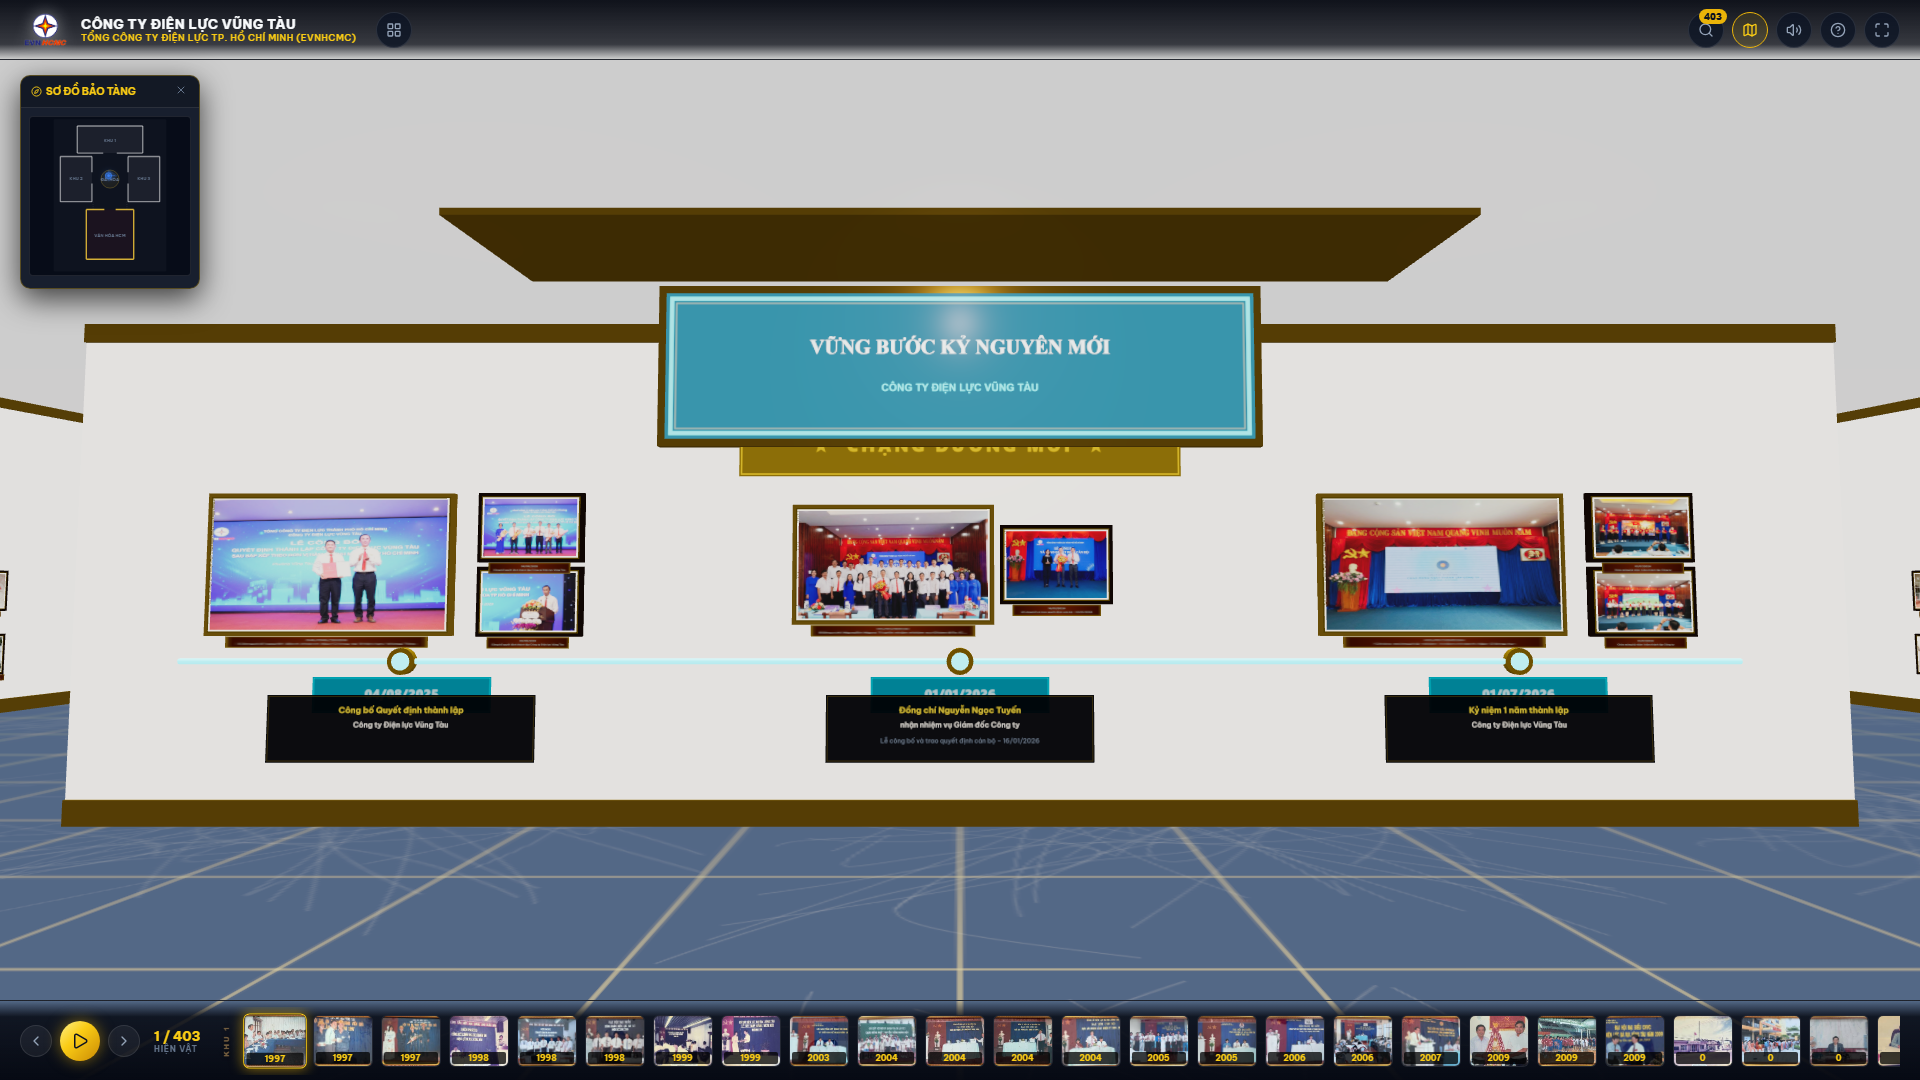
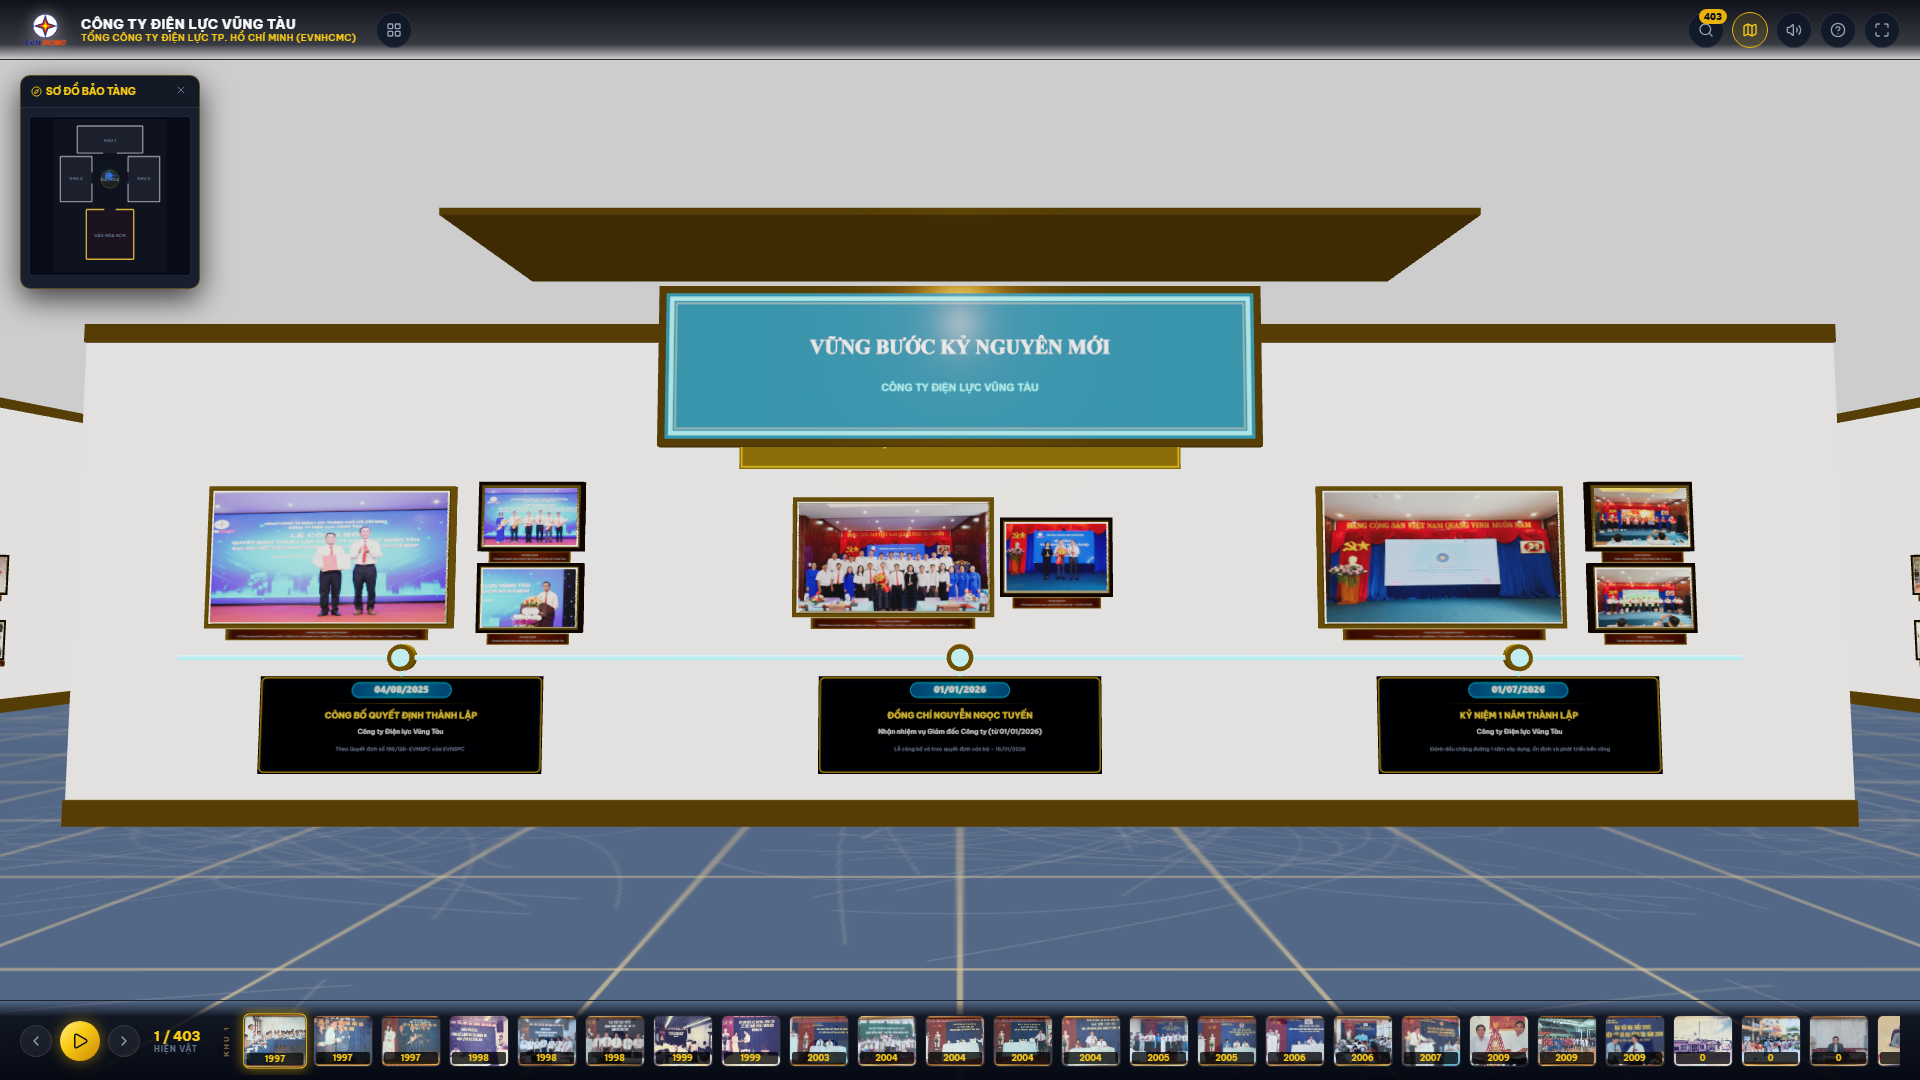
GĐ3-fix3: nâng cao ảnh tường ngoài, tích hợp bảng mốc son không chồng lấn

diff --git a/js/milestone-wall.js b/js/milestone-wall.js
@@ -48,15 +48,15 @@ export class MilestoneWallBuilder {
     const xWest = 35.0 - 0.3 - 0.05; // 34.65
     const rotYWest = -Math.PI / 2;
 
-    // 1.1 Dòng đầu "CHẶNG ĐƯỜNG MỚI" ở y = 5.1
-    this.addHeaderBanner(westGroup, xWest, 5.1, 0, rotYWest, 'CHẶNG ĐƯỜNG MỚI');
+    // 1.1 Dòng đầu "CHẶNG ĐƯỜNG MỚI" ở y = 5.2
+    this.addHeaderBanner(westGroup, xWest, 5.2, 0, rotYWest, 'CHẶNG ĐƯỜNG MỚI');
 
-    // 1.2 Đường LED dòng thời gian ở y = 2.2, chạy từ z = -10.5 đến +10.5
+    // 1.2 Đường LED dòng thời gian ở y = 2.25, chạy từ z = -10.5 đến +10.5
     const ledLength = 21.0;
-    const ledGeo = new THREE.CylinderGeometry(0.04, 0.04, ledLength, 16);
+    const ledGeo = new THREE.CylinderGeometry(0.035, 0.035, ledLength, 16);
     const ledMesh = new THREE.Mesh(ledGeo, this.matCyanLED);
     ledMesh.rotation.x = Math.PI / 2;
-    ledMesh.position.set(xWest, 2.2, 0);
+    ledMesh.position.set(xWest, 2.25, 0);
     westGroup.add(ledMesh);
 
     // 3 Mốc son chi tiết
@@ -65,8 +65,9 @@ export class MilestoneWallBuilder {
         index: 1,
         z: -7.5,
         date: '04/08/2025',
-        title: 'Công bố Quyết định thành lập',
+        title: 'CÔNG BỐ QUYẾT ĐỊNH THÀNH LẬP',
         subtitle: 'Công ty Điện lực Vũng Tàu',
+        descExtra: 'Theo Quyết định số 186/QĐ-EVNSPC của EVNSPC',
         mainId: 'pcvt_003_2025-08-04',
         smallIds: ['pcvt_004_2025-08-04', 'pcvt_005_2025-08-04'],
         mainSize: { w: 3.2, h: 1.8 },
@@ -77,8 +78,8 @@ export class MilestoneWallBuilder {
         index: 2,
         z: 0.0,
         date: '01/01/2026',
-        title: 'Đồng chí Nguyễn Ngọc Tuyến',
-        subtitle: 'nhận nhiệm vụ Giám đốc Công ty',
+        title: 'ĐỒNG CHÍ NGUYỄN NGỌC TUYẾN',
+        subtitle: 'Nhận nhiệm vụ Giám đốc Công ty (từ 01/01/2026)',
         descExtra: 'Lễ công bố và trao quyết định cán bộ – 16/01/2026',
         mainId: 'moc2_01',
         smallIds: ['moc2_02'],
@@ -90,8 +91,9 @@ export class MilestoneWallBuilder {
         index: 3,
         z: 7.5,
         date: '01/07/2026',
-        title: 'Kỷ niệm 1 năm thành lập',
+        title: 'KỶ NIỆM 1 NĂM THÀNH LẬP',
         subtitle: 'Công ty Điện lực Vũng Tàu',
+        descExtra: 'Đánh dấu chặng đường 1 năm xây dựng, ổn định và phát triển bền vững',
         mainId: 'pcvt_069_2026-07-01',
         smallIds: ['pcvt_070_2026-07-01', 'pcvt_071_2026-07-01'],
         mainSize: { w: 3.2, h: 1.8 },
@@ -101,19 +103,19 @@ export class MilestoneWallBuilder {
     ];
 
     milestones.forEach(m => {
-      // Node LED trên đường timeline
+      // Node LED trên đường timeline (y = 2.25)
       const nodeGeo = new THREE.CylinderGeometry(0.18, 0.18, 0.08, 24);
       const nodeMesh = new THREE.Mesh(nodeGeo, this.matGold);
       nodeMesh.rotation.z = Math.PI / 2;
-      nodeMesh.position.set(xWest - 0.01, 2.2, m.z);
+      nodeMesh.position.set(xWest - 0.01, 2.25, m.z);
       westGroup.add(nodeMesh);
 
       const nodeCore = new THREE.Mesh(new THREE.CylinderGeometry(0.12, 0.12, 0.09, 24), this.matCyanLED);
       nodeCore.rotation.z = Math.PI / 2;
-      nodeCore.position.set(xWest - 0.015, 2.2, m.z);
+      nodeCore.position.set(xWest - 0.015, 2.25, m.z);
       westGroup.add(nodeCore);
 
-      // Ảnh chính tại y = 3.5
+      // Ảnh chính tại y = 3.60
       const mainItem = itemsById.get(m.mainId) || {
         id: m.mainId,
         source: 'pcvt',
@@ -129,14 +131,14 @@ export class MilestoneWallBuilder {
         { w: m.mainSize.w, h: m.mainSize.h, frameType: 'gold_honor' },
         rotYWest
       );
-      mainExhibit.position.set(xWest, 3.5, m.z + m.mainOffsetZ);
+      mainExhibit.position.set(xWest, 3.60, m.z + m.mainOffsetZ);
       westGroup.add(mainExhibit);
       if (onExhibitDone) onExhibitDone();
 
       // Các ảnh nhỏ xếp bên cạnh
       if (m.smallIds && m.smallIds.length > 0) {
         if (m.smallIds.length === 1) {
-          // 1 ảnh nhỏ (Mốc 2)
+          // 1 ảnh nhỏ (Mốc 2) tại y = 3.60
           const smItem = itemsById.get(m.smallIds[0]) || {
             id: m.smallIds[0],
             source: 'pcvt',
@@ -151,12 +153,12 @@ export class MilestoneWallBuilder {
             { w: 1.4, h: 0.95, frameType: 'cert' },
             rotYWest
           );
-          smExhibit.position.set(xWest, 3.5, m.z + m.smallOffsetZ);
+          smExhibit.position.set(xWest, 3.60, m.z + m.smallOffsetZ);
           westGroup.add(smExhibit);
           if (onExhibitDone) onExhibitDone();
         } else {
-          // 2 ảnh nhỏ xếp chồng (y = 4.0 và y = 3.0)
-          const yOffsets = [4.0, 3.0];
+          // 2 ảnh nhỏ xếp chồng tại y = 4.15 và y = 3.05
+          const yOffsets = [4.15, 3.05];
           m.smallIds.forEach((smId, idx) => {
             const smItem = itemsById.get(smId) || {
               id: smId,
@@ -179,11 +181,9 @@ export class MilestoneWallBuilder {
         }
       }
 
-      // Ngày tháng lớn (font weight 900) ở y = 1.75
-      this.addDateText(westGroup, xWest, 1.75, m.z, rotYWest, m.date);
-
-      // Mô tả ở y = 1.30
-      this.addDescText(westGroup, xWest, 1.30, m.z, rotYWest, m.title, m.subtitle, m.descExtra);
+      // Bảng thông tin mốc son tích hợp (y = 1.35, cao 1.30m: từ 0.70m đến 2.00m)
+      // Không còn z-fighting, không chồng chéo, ngày tháng nổi bật ở đỉnh card
+      this.addMilestoneCard(westGroup, xWest, 1.35, m.z, rotYWest, m);
     });
 
     group.add(westGroup);
@@ -272,72 +272,96 @@ export class MilestoneWallBuilder {
     parent.add(mesh);
   }
 
-  addDateText(parent, x, y, z, rotY, dateStr) {
+  addMilestoneCard(parent, x, y, z, rotY, m) {
     const canvas = document.createElement('canvas');
-    canvas.width = 640;
-    canvas.height = 128;
+    canvas.width = 1200;
+    canvas.height = 420;
     const ctx = canvas.getContext('2d');
 
-    ctx.fillStyle = '#0a1020';
-    ctx.fillRect(0, 0, 640, 128);
+    // 1. Nền card bo góc sang trọng
+    ctx.fillStyle = '#080d1a';
+    ctx.beginPath();
+    ctx.roundRect(8, 8, 1184, 404, 16);
+    ctx.fill();
+
+    // Viền vàng kim loại sang trọng
+    ctx.strokeStyle = 'rgba(250, 204, 21, 0.75)';
+    ctx.lineWidth = 3.5;
+    ctx.stroke();
+
+    // Viền trong cyan neon nhẹ
+    ctx.strokeStyle = 'rgba(34, 211, 238, 0.25)';
+    ctx.lineWidth = 1.5;
+    ctx.beginPath();
+    ctx.roundRect(18, 18, 1164, 384, 12);
+    ctx.stroke();
+
+    // 2. Badge ngày tháng nổi bật ở đỉnh card
+    const badgeW = 420;
+    const badgeH = 64;
+    const badgeX = (1200 - badgeW) / 2;
+    const badgeY = 28;
+
+    const grad = ctx.createLinearGradient(badgeX, badgeY, badgeX + badgeW, badgeY + badgeH);
+    grad.addColorStop(0, '#0369a1');
+    grad.addColorStop(0.5, '#0891b2');
+    grad.addColorStop(1, '#0369a1');
+
+    ctx.fillStyle = grad;
+    ctx.beginPath();
+    ctx.roundRect(badgeX, badgeY, badgeW, badgeH, 32);
+    ctx.fill();
 
     ctx.strokeStyle = '#22d3ee';
-    ctx.lineWidth = 4;
-    ctx.strokeRect(4, 4, 632, 120);
+    ctx.lineWidth = 3;
+    ctx.stroke();
 
+    // Chữ ngày tháng nổi bật (font 900, glow cyan)
     ctx.fillStyle = '#ffffff';
-    ctx.font = `900 46px ${FONT_FAMILY}`;
+    ctx.font = `900 40px ${FONT_FAMILY}`;
     ctx.textAlign = 'center';
     ctx.textBaseline = 'middle';
     ctx.shadowColor = '#22d3ee';
-    ctx.shadowBlur = 8;
-    ctx.fillText(dateStr, 320, 64);
+    ctx.shadowBlur = 10;
+    ctx.fillText(m.date, 600, badgeY + badgeH / 2);
+    ctx.shadowBlur = 0; // reset shadow
 
-    const tex = new THREE.CanvasTexture(canvas);
-    tex.colorSpace = THREE.SRGBColorSpace;
-    const mat = new THREE.MeshStandardMaterial({
-      map: tex,
-      metalness: 0.7,
-      roughness: 0.25,
-      emissive: new THREE.Color(0x22d3ee),
-      emissiveIntensity: 0.25
-    });
+    // 3. Đường kẻ trang trí ngăn cách
+    const divGrad = ctx.createLinearGradient(200, 118, 1000, 118);
+    divGrad.addColorStop(0, 'rgba(250, 204, 21, 0)');
+    divGrad.addColorStop(0.5, 'rgba(250, 204, 21, 0.6)');
+    divGrad.addColorStop(1, 'rgba(250, 204, 21, 0)');
+    ctx.strokeStyle = divGrad;
+    ctx.lineWidth = 2;
+    ctx.beginPath();
+    ctx.moveTo(200, 118);
+    ctx.lineTo(1000, 118);
+    ctx.stroke();
 
-    const mesh = new THREE.Mesh(new THREE.PlaneGeometry(2.4, 0.48), mat);
-    mesh.position.set(x, y, z);
-    mesh.rotation.y = rotY;
-    parent.add(mesh);
-  }
-
-  addDescText(parent, x, y, z, rotY, title, subtitle, extra) {
-    const canvas = document.createElement('canvas');
-    canvas.width = 1024;
-    canvas.height = 256;
-    const ctx = canvas.getContext('2d');
-
-    ctx.fillStyle = 'rgba(10, 16, 32, 0.95)';
-    ctx.fillRect(0, 0, 1024, 256);
-
-    ctx.strokeStyle = 'rgba(250, 204, 21, 0.4)';
-    ctx.lineWidth = 3;
-    ctx.strokeRect(6, 6, 1012, 244);
-
+    // 4. Tiêu đề chính (Màu vàng kim sang trọng, font 800 36px)
     ctx.fillStyle = '#fde047';
-    ctx.font = `700 32px ${FONT_FAMILY}`;
+    ctx.font = `800 36px ${FONT_FAMILY}`;
     ctx.textAlign = 'center';
     ctx.textBaseline = 'middle';
-    ctx.fillText(title, 512, 60);
+    ctx.shadowColor = 'rgba(0, 0, 0, 0.9)';
+    ctx.shadowOffsetY = 2;
+    ctx.shadowBlur = 4;
+    ctx.fillText(m.title, 600, 172);
+    ctx.shadowOffsetY = 0;
+    ctx.shadowBlur = 0;
 
-    if (subtitle) {
-      ctx.fillStyle = '#ffffff';
+    // 5. Phụ đề (Màu trắng sáng, font 600 28px)
+    if (m.subtitle) {
+      ctx.fillStyle = '#f8fafc';
       ctx.font = `600 28px ${FONT_FAMILY}`;
-      ctx.fillText(subtitle, 512, 115);
+      ctx.fillText(m.subtitle, 600, 240);
     }
 
-    if (extra) {
+    // 6. Ghi chú sự kiện / chi tiết (Màu bạc sáng, font 500 22px)
+    if (m.descExtra) {
       ctx.fillStyle = '#94a3b8';
-      ctx.font = `500 24px ${FONT_FAMILY}`;
-      ctx.fillText(extra, 512, 175);
+      ctx.font = `500 22px ${FONT_FAMILY}`;
+      ctx.fillText(m.descExtra, 600, 315);
     }
 
     const tex = new THREE.CanvasTexture(canvas);
@@ -345,13 +369,24 @@ export class MilestoneWallBuilder {
     const mat = new THREE.MeshStandardMaterial({
       map: tex,
       metalness: 0.5,
-      roughness: 0.4,
-      transparent: true
+      roughness: 0.35
     });
 
-    const mesh = new THREE.Mesh(new THREE.PlaneGeometry(3.6, 0.9), mat);
+    // Kích thước card trong 3D: rộng 3.8m, cao 1.30m
+    const mesh = new THREE.Mesh(new THREE.PlaneGeometry(3.8, 1.30), mat);
     mesh.position.set(x, y, z);
     mesh.rotation.y = rotY;
     parent.add(mesh);
+
+    // Thanh liên kết đứng từ Node LED (y=2.25) xuống đỉnh Card (y + 1.30/2 = y + 0.65)
+    const cardTopY = y + 1.30 / 2;
+    const nodeY = 2.25;
+    const pinH = nodeY - cardTopY;
+    if (pinH > 0.05) {
+      const pinGeo = new THREE.CylinderGeometry(0.02, 0.02, pinH, 16);
+      const pinMesh = new THREE.Mesh(pinGeo, this.matCyanLED);
+      pinMesh.position.set(x - 0.01, cardTopY + pinH / 2, z);
+      parent.add(pinMesh);
+    }
   }
 }

diff --git a/js/exhibit-builder.js b/js/exhibit-builder.js
@@ -22,8 +22,12 @@ export class ExhibitBuilder {
     this.mountedExhibits = [];
 
     // GĐ3-fix2 thông số tầng ảnh
+    // Vách ngăn đơn giữa khu (partition_k1): 3.10 / 1.50
     this.ROW_Y_TOP = 3.10;
     this.ROW_Y_BOTTOM = 1.50;
+    // Các bức tường xung quanh bảo tàng nâng cao lên vừa tầm mắt người xem (eyeHeight 2.85m)
+    this.OUTER_ROW_Y_TOP = 3.50;
+    this.OUTER_ROW_Y_BOTTOM = 1.85;
     this.MIN_GAP = 0.35;
     this.END_MARGIN = 1.20;
 
@@ -196,8 +200,14 @@ export class ExhibitBuilder {
       }
     };
 
-    mountRow(topItems, this.ROW_Y_TOP);
-    mountRow(bottomItems, this.ROW_Y_BOTTOM);
+    // Tường đơn giữa khu (partition_k1) giữ mức cũ 3.10 / 1.50
+    // Các bức tường xung quanh bảo tàng nâng cao lên vừa tầm mắt người xem: 3.50 / 1.85
+    const isPartition = wallId === 'partition_k1' || (wallId && wallId.startsWith('partition_'));
+    const yTop = isPartition ? this.ROW_Y_TOP : this.OUTER_ROW_Y_TOP;
+    const yBottom = isPartition ? this.ROW_Y_BOTTOM : this.OUTER_ROW_Y_BOTTOM;
+
+    mountRow(topItems, yTop);
+    mountRow(bottomItems, yBottom);
   }
 
   // ===========================================================================

diff --git a/index.html b/index.html
@@ -561,6 +561,6 @@
   </div>
 
   <!-- App Entry -->
-  <script type="module" src="js/main.js?v=gd3-fix2"></script>
+  <script type="module" src="js/main.js?v=gd3-fix2c"></script>
 </body>
 </html>
